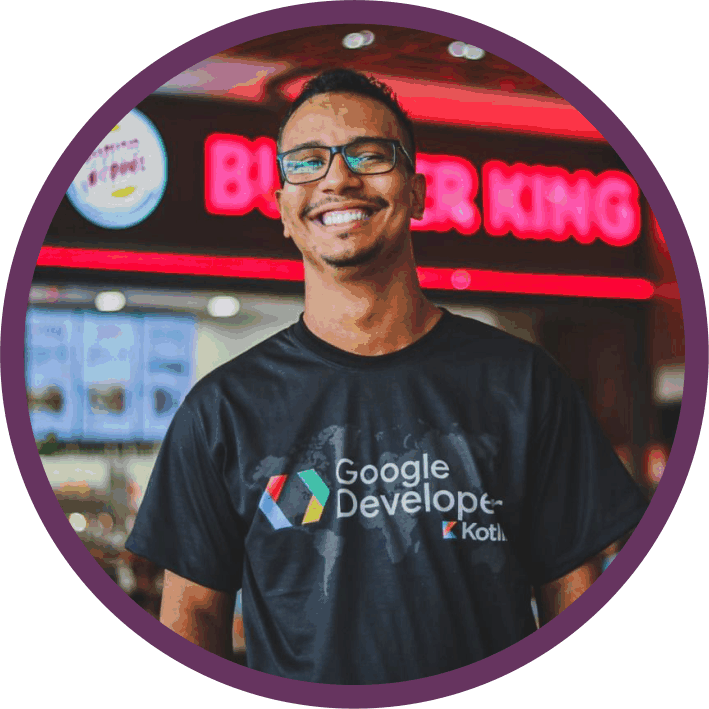
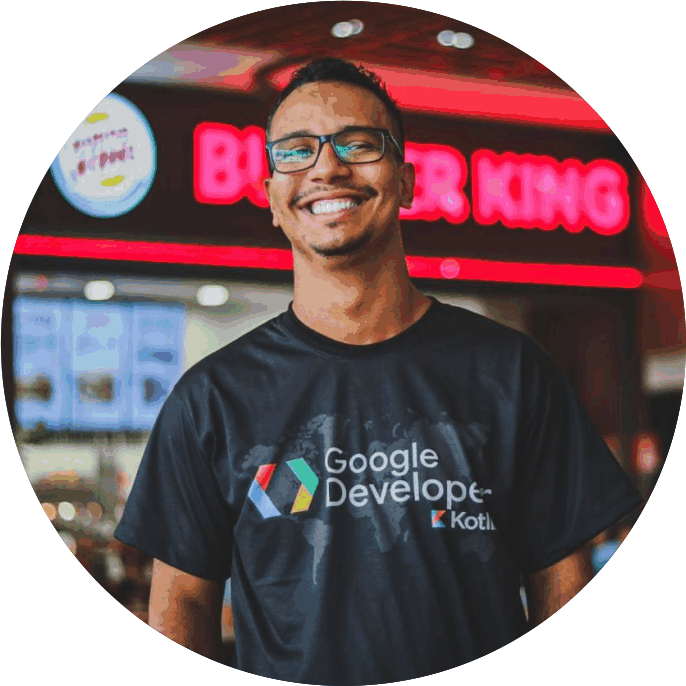
feat - finaliza sessao home, faltando detalhe do footer

diff --git a/index.html b/index.html
@@ -11,6 +11,9 @@
   <script src="https://cdn.tailwindcss.com?plugins=forms,typography,aspect-ratio,line-clamp,container-queries"></script>
   <script src="https://unpkg.com/@themesberg/flowbite@1.1.1/dist/flowbite.bundle.js" defer></script>
   <script defer src="https://unpkg.com/alpinejs@3.2.3/dist/cdn.min.js"></script>
+  <script defer src="https://cdn.jsdelivr.net/npm/tailwindcss-animated@1.1.2/src/index.min.js"></script>
+  <script defer src="https://www.tailwindcss-animated.com/configurator.html?animation=fade-right"></script>
+
 
   <link rel="stylesheet" href="index.css">
 
@@ -18,10 +21,10 @@
 
 <body>
 
-  <div id="home" class="w-screen h-screen flex flex-col items-center justify-center">
+  <div id="home" class="w-screen h-screen flex flex-col items-center justify-between gap-6">
     <!--Start Background Animation Body-->
-    <div class="area">
-      <ul class="circles">
+    <div class="area bg-zinc-950">
+      <ul class="circles animate-pulse">
         <li></li>
         <li></li>
         <li></li>
@@ -36,15 +39,15 @@
     </div>
     <!--End Background Animation Body-->
 
-    <div id="main-home" class="w-3/4 h-full flex flex-col items-center justify-center">
+    <div id="main-home" class="w-3/4 h-screen flex flex-row items-center gap-10">
 
       <div class="w-full flex flex-col items-center gap-8">
-        <div class="w-1/4">
-          <img src="./assets/jeanramalho.png" alt="imagem com uma foto de perfil">
+        <div class="w-64 h-64 rounded-full animate-fade-right ">
+          <img src="./assets/jean.jpeg" alt="imagem com uma foto de perfil" class=" w-64 h-64 object-cover rounded-full">
         </div>
 
-        <div class="w-2/4 flex items-center justify-center">
-          <svg xmlns="http://www.w3.org/2000/svg" xml:space="preserve" width="113.134mm" height="19.4426mm"
+        <div class="w-max flex items-center justify-center">
+          <svg class="w-full" xmlns="http://www.w3.org/2000/svg" xml:space="preserve" width="113.134mm" height="19.4426mm"
             version="1.1"
             style="shape-rendering:geometricPrecision; text-rendering:geometricPrecision; image-rendering:optimizeQuality; fill-rule:evenodd; clip-rule:evenodd"
             viewBox="0 0 2419.3 415.77" xmlns:xlink="http://www.w3.org/1999/xlink"
@@ -147,7 +150,18 @@
 
       </div>
 
+      <div class="w-max flex flex-col items-center gap-6 mt-10">
+        <p class="text-white font-bold text-5xl uppercase w-full text-left">Oi, eu sou Jean Ramalho, trabalho desenvolvendo soluções para web e mobile.</p>
+        
+        <button class="bg-gradient-to-r from-indigo-500 via-purple-900 to-purple-500 text-white hover:animate-pulse p-4 rounded-full text-2xl font-bold uppercase">Baixe meu Currículo</button>
+      </div>
 
+
+    </div>
+
+    <div class="w-full bg-purple-900 h-10 b-0 flex flex-row justify-center items-center truncate pulse" >
+      <p class="text-xl font-bold uppercase text-center text-white tracking-wider">react native | Swift | Kotlin | React | Node | react native | Swift | Kotlin | React | Node | react native | Swift | Kotlin | React | Node | react native | Swift | Kotlin | React | Node</p>
+    
     </div>
 
 

diff --git a/index.css b/index.css
@@ -48,8 +48,6 @@
 -- Start BackGround Animation 
 */
 .area {
-	background: #18181b;
-	background: -webkit-linear-gradient(to left, #8f94fb, #4e54c8);
 	width: 100%;
 	height: 100vh;
 	position: absolute;
